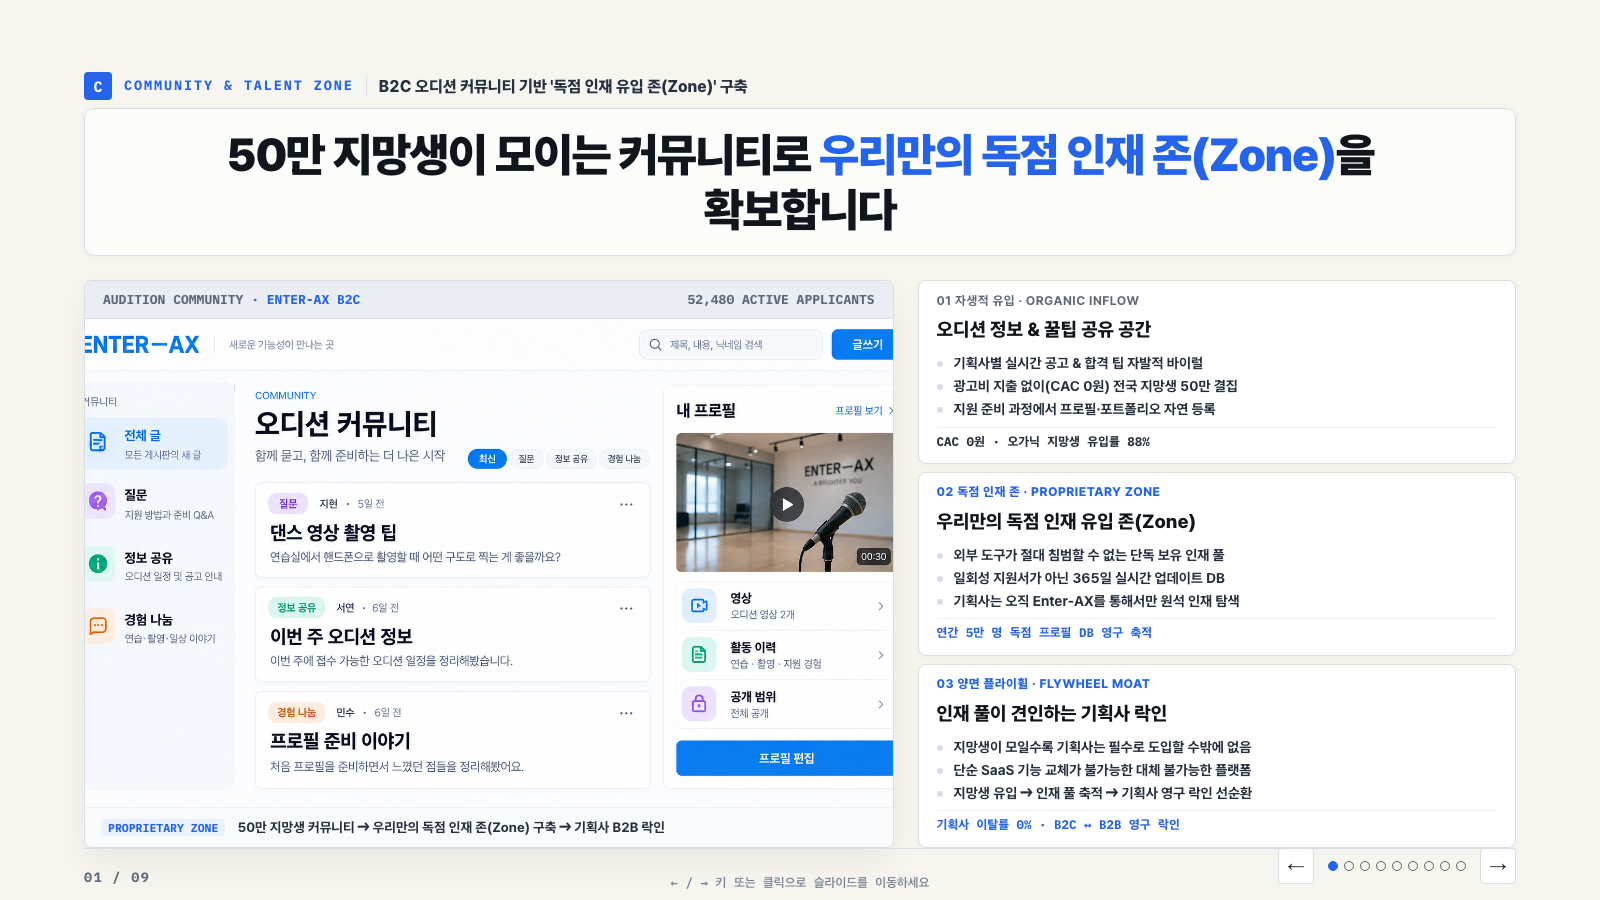
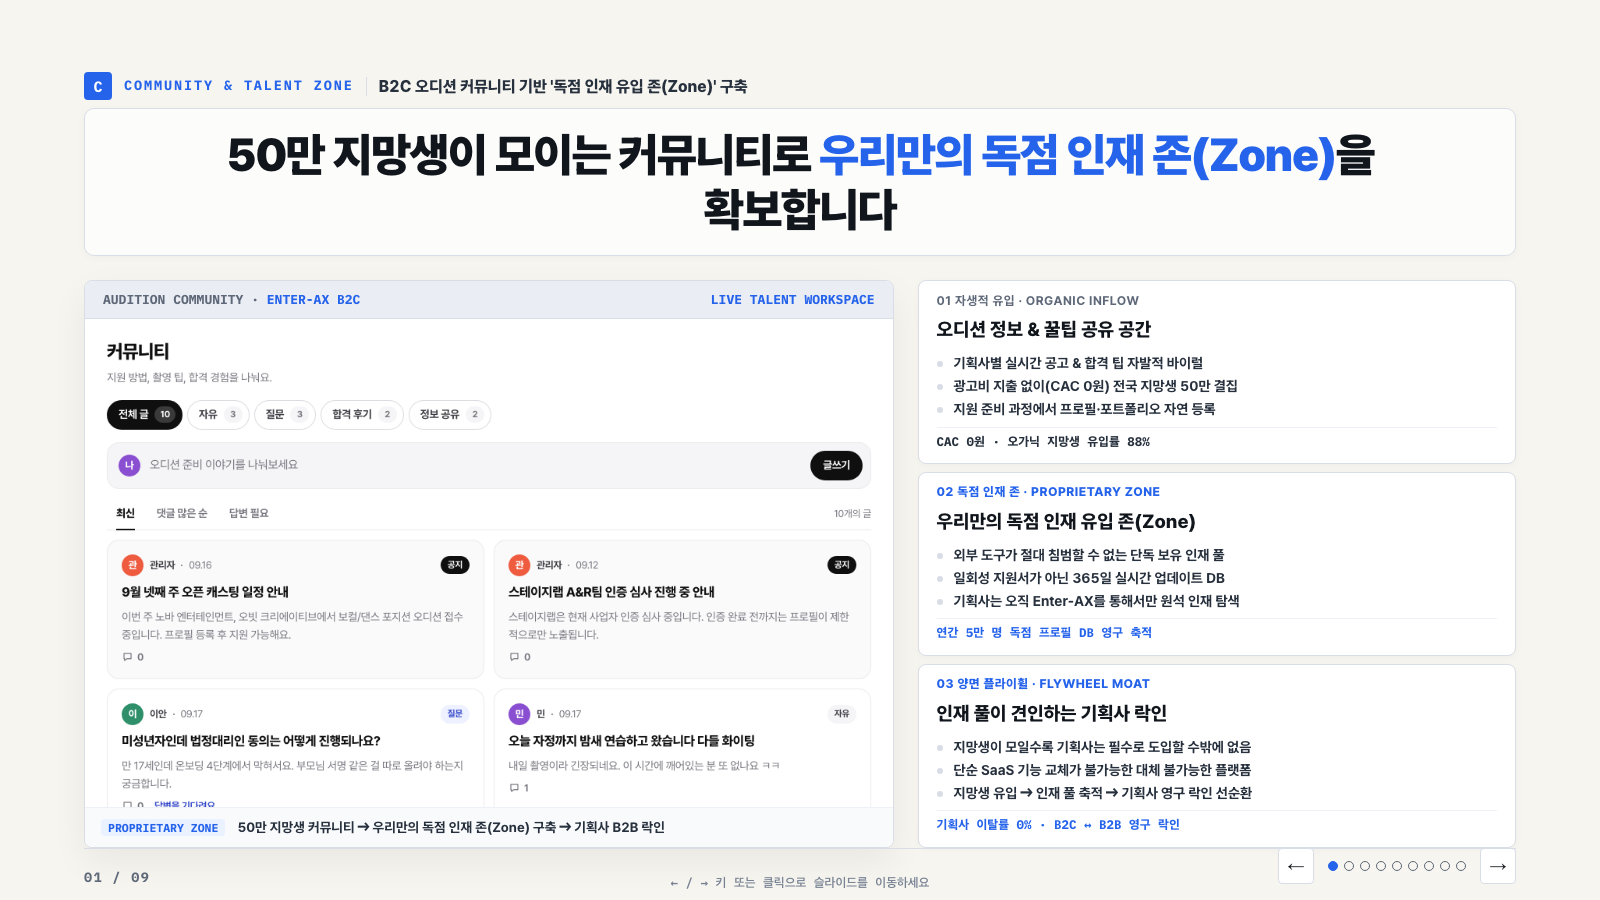
feat(deck): replace generated mock with live captured audition community screen

diff --git a/ir-deck-2.html b/ir-deck-2.html
@@ -1572,9 +1572,9 @@
             <div class="comm-screen-card">
               <div class="comm-screen-bar">
                 <span>AUDITION COMMUNITY · <b>ENTER-AX B2C</b></span>
-                <span>52,480 ACTIVE APPLICANTS</span>
+                <b>LIVE TALENT WORKSPACE</b>
               </div>
-              <img src="assets/deck/community-color-v1.png" alt="Enter-AX 오디션 지망생 커뮤니티 실화면">
+              <img src="public/images/landing/screen-community-real.png" alt="Enter-AX 오디션 지망생 커뮤니티 실제 구동 화면">
               <div class="comm-screen-foot">
                 <small>PROPRIETARY ZONE</small>
                 <span>50만 지망생 커뮤니티 ➔ 우리만의 독점 인재 존(Zone) 구축 ➔ 기획사 B2B 락인</span>
